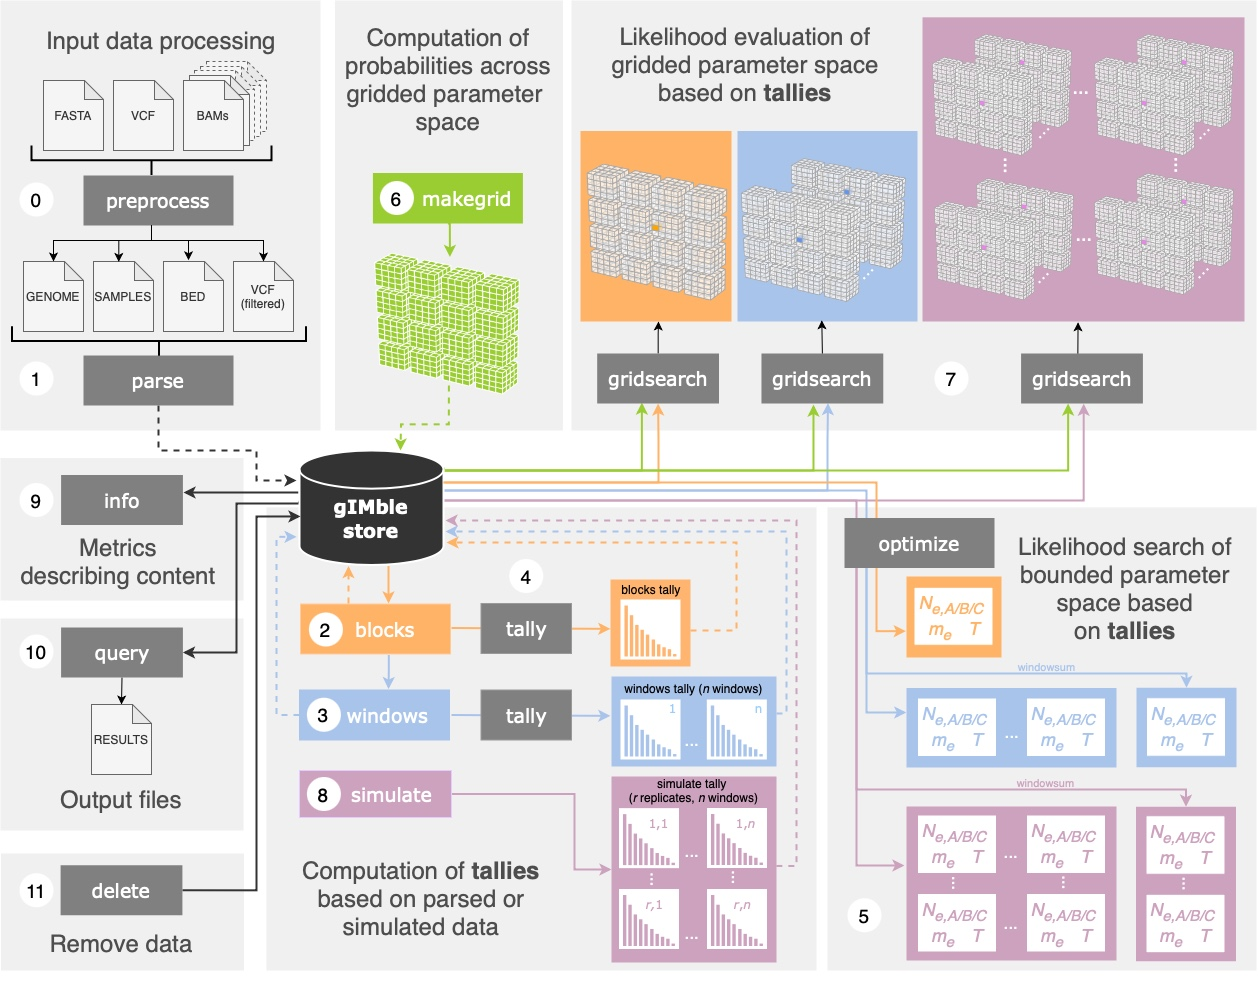
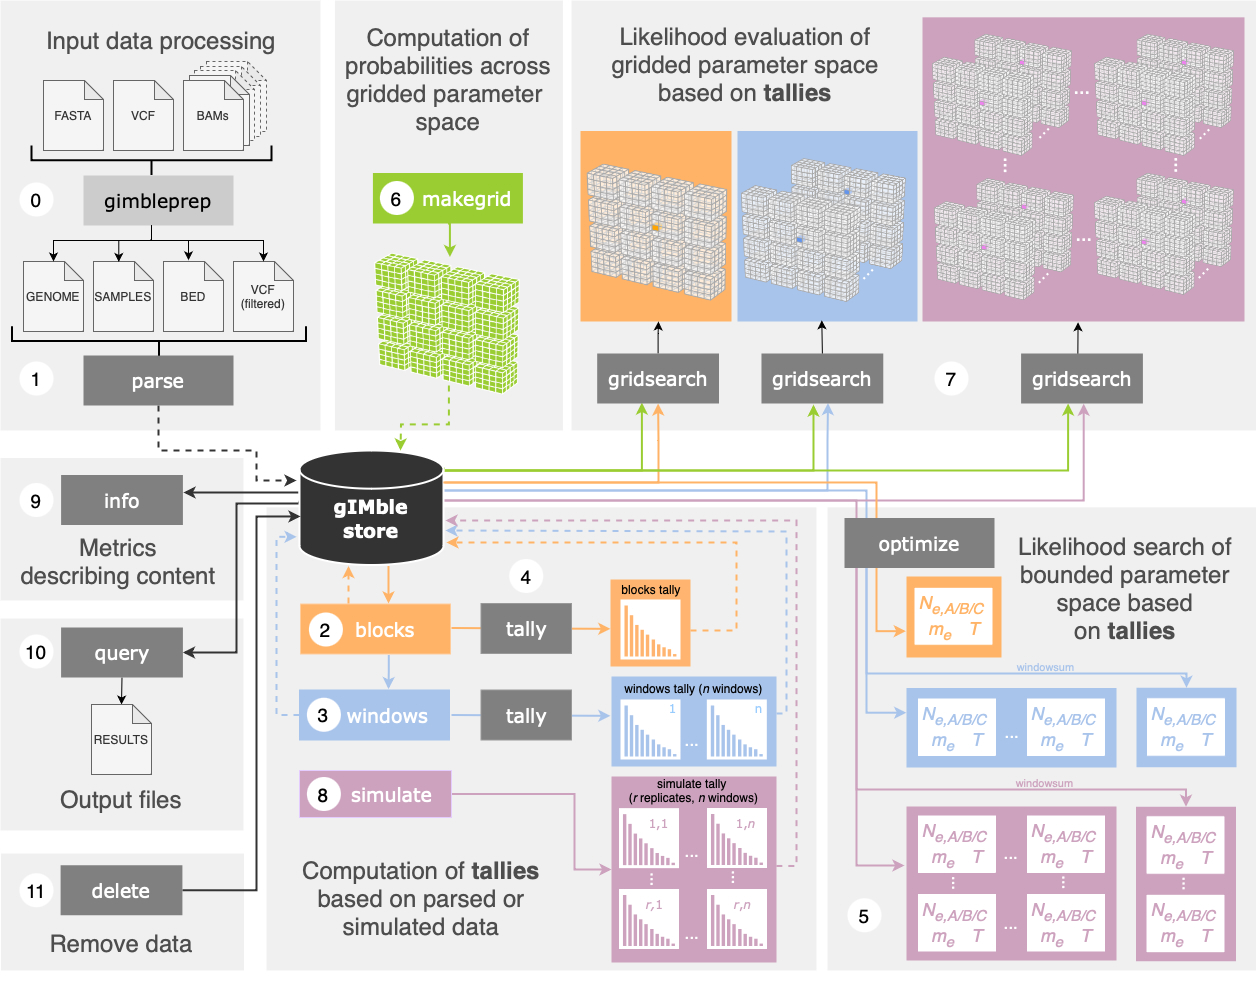
Updated workflow and caption in readme

diff --git a/README.md b/README.md
@@ -18,8 +18,8 @@ conda install -c conda-forge gimble
 
 # Workflow
 
-![gIMble workflow](/docs/gIMble.workflow.jpg?raw=true "gIMble workflow")
-**gIMble workflow**. `preprocess` (**0**) assures input data conforms to requirements; `parse` (**1**) reads data into a `gIMble`
+![gIMble workflow](/docs/gimble.workflow.jpg?raw=true "gIMble workflow")
+**gIMble workflow**. `gimbleprep` (**0**) assures input data conforms to requirements; `parse` (**1**) reads data into a `gIMble`
 store, the central data structure that holds all subsequent analysis. The modules `blocks` (**2**) and
 `windows` (**3**) partition the data which is summarised as a tally (**4**) of blockwise mutation
 configurations (bSFSs) either across all pair-blocks (blocks tally) or for pair-blocks in windows
